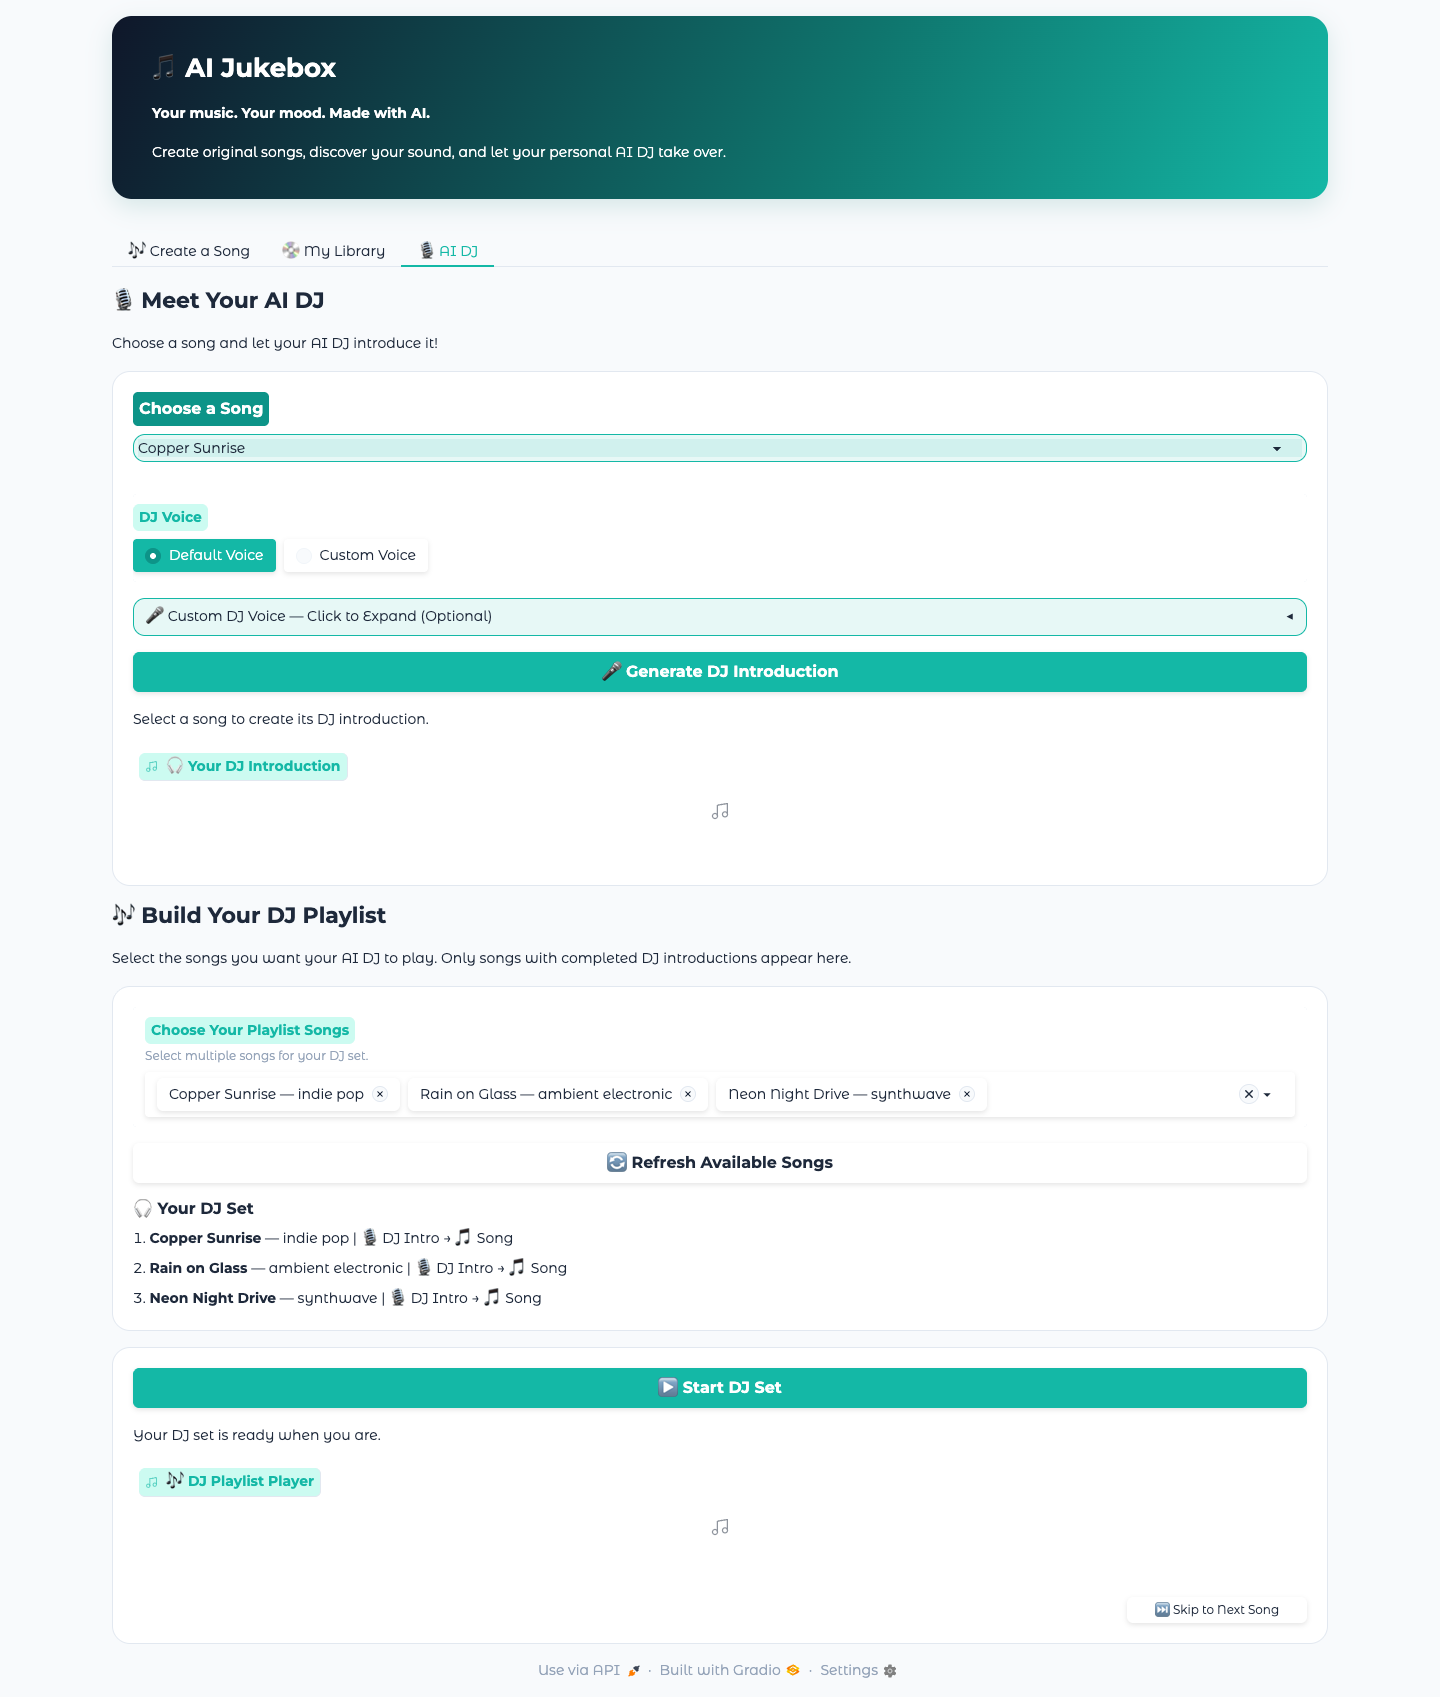
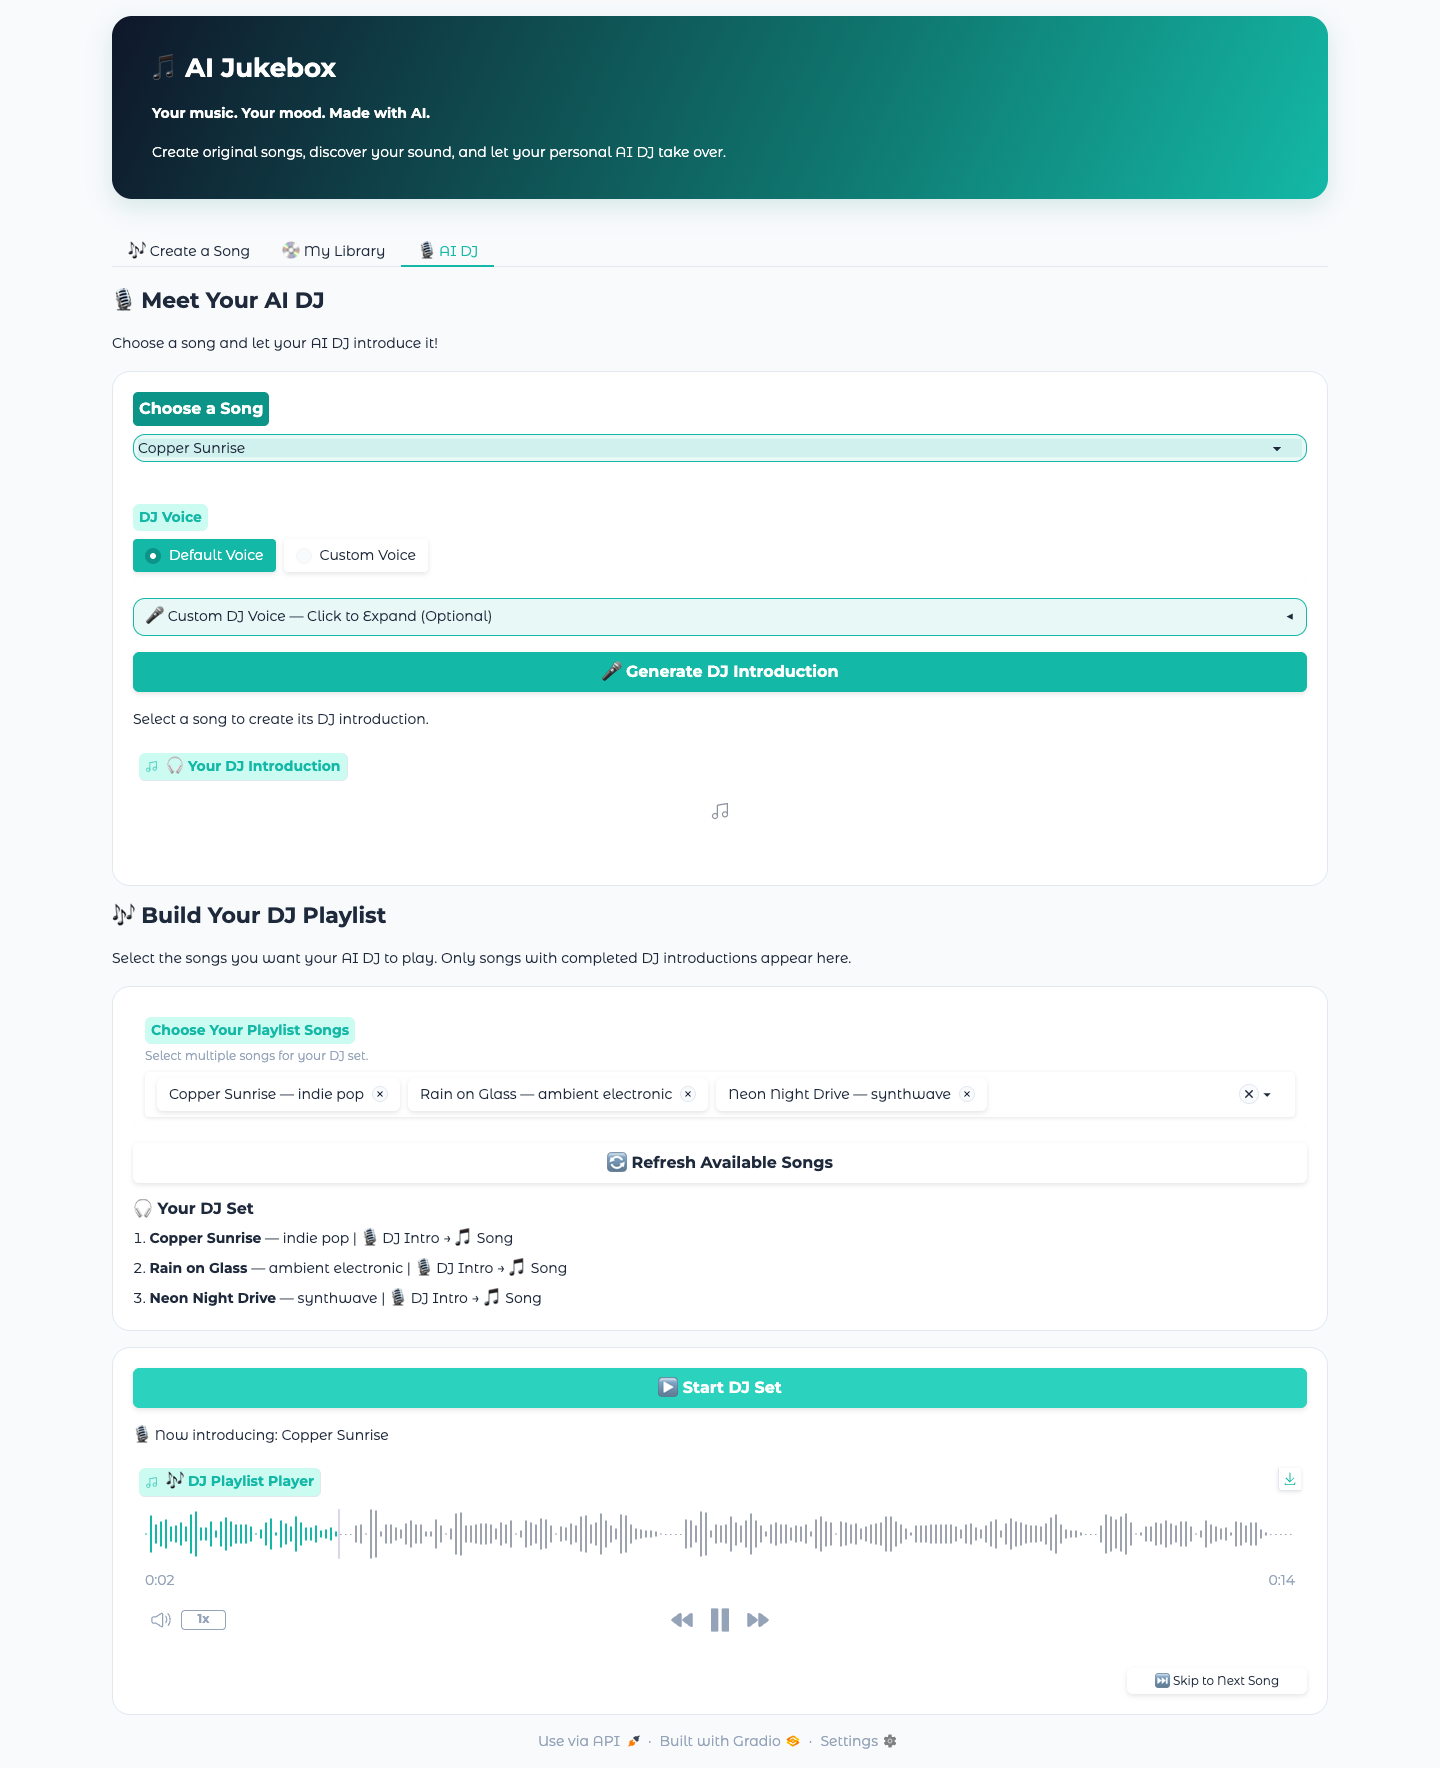
docs: capture bundled DJ speech actively playing

diff --git a/README.md b/README.md
@@ -96,7 +96,7 @@ Starting any of the four audio players pauses the others without clearing their 
 
 ## Interface screenshots
 
-These October 27, 2026 captures show the documented revision in isolated Chrome using bundled samples. No generation or playback controls were clicked. They illustrate the interface, not fresh generation or listening results.
+These October 27, 2026 captures show the documented app in isolated Chrome using bundled samples. The generation and library captures show the interface without starting playback. The DJ capture shows actual bundled speech playing after **Start DJ Set** was clicked; browser timing and audio-source checks are recorded in [playback verification](results/verification.md#bundled-dj-speech-playback-capture-issue-7-pr-17). No fresh AI generation or human listening test was performed.
 
 ![Song-generation controls](screenshots/song-generation.png)
 
@@ -106,9 +106,9 @@ Create a Song at its defaults, before generation.
 
 My Library with all three samples and Copper Sunrise selected for playback and editing.
 
-![DJ playlist ready to start](screenshots/dj-playlist.png)
+![DJ playlist actively playing bundled Copper Sunrise speech](screenshots/dj-playlist.png)
 
-AI DJ with three sample tracks queued but not started. **Issue #7 also requests a screenshot of the queue playing DJ speech; that capture is still needed.**
+AI DJ with all three sample tracks queued and **Now introducing: Copper Sunrise** displayed. The playlist player shows about 0:02 of its 0:14 introduction and a pause control. The active HTML audio element's time advanced with `paused=false`; its source bytes matched the bundled Copper Sunrise DJ MP3. This is browser playback evidence, not human audible-listening confirmation.
 
 ## Architecture
 
@@ -207,7 +207,8 @@ Package the generated samples, not third-party music, lyrics, art, or voice samp
 - [ ] Have the team verify this documentation against the finished app and explain the findings in its own words. Confirm the original starter prompt was retained and any additions were made before building; this draft does not establish that process history.
 - [ ] Have a teammate download the selected version's **ZIP from GitHub**, extract it into a clean location, and install/run using only this README and class credentials. Resolve missing dependencies, files, or setup instructions. Record tester, OS/Python/browser, commit/archive, inputs, expected/actual results, and fixes.
 - [ ] In that copy, verify new instrumental and vocal songs, matching new covers, library availability, default and custom MP3/WAV DJ speech, and sample playback. Check audible pause/resume, skip, automatic DJ/song progression, and non-overlap. Keep untested formats/conditions explicit. Existing simulated failure/recovery tests cover a failure case; a deliberate live outage is not required.
-- [ ] Capture the queue playing DJ speech for issue #7. Review and package the screenshots and SVG at their relative paths alongside the final `README.md`.
+- [x] Capture the queue playing bundled DJ speech for issue #7; browser state and source identity are recorded in `results/verification.md`. Human audible checks and the independent teammate ZIP test remain pending.
+- [ ] Review and package the screenshots and SVG at their relative paths alongside the final `README.md`.
 - [ ] Check the final package includes code, `pyproject.toml`, `uv.lock`, `.env.example`, documentation, sample manifest, three song MP3s, three DJ MP3s, and three covers. Exclude credentials, uploads, and voice references; previous audits do not establish that the final package is clean.
 - [ ] Confirm every teammate's meaningful contribution and review of a teammate's work through issues/PRs, and instructor access through grading. Complete issue #7's requested review by `fisher-clements` before merging its documentation PR.
 - [ ] After documentation review and final verification, submit one shared repository link, exact commit ID, and the **GitHub-downloaded ZIP for that same version** on Canvas. Nothing has been submitted by this documentation edit.

diff --git a/results/verification.md b/results/verification.md
@@ -44,3 +44,19 @@ Result: 163 passed, 2 warnings.
 
 The warnings did not cause test failures.
 Both warnings are Gradio deprecation notices for the `theme` and `css` parameters in `gr.Blocks()`. These parameters will need to move to `.launch()` when upgrading to Gradio 6.0. Neither warning affects the current functionality or test results. No changes are required for this PR.
+
+## Bundled DJ speech playback capture (Issue #7, PR #17)
+
+Captured October 27, 2026, at 18:16 MDT in automated headless Chrome 156.0.8078.49 on macOS. This supplements, rather than replaces, the October 26 results above.
+
+- **Source:** PR #17 head `ce727e8b0100e1aff71bc6d6fd94822c71527804`, exported with `git archive`; all 55 tracked files matched their Git blobs byte-for-byte. Application code, dependencies and bundled assets were unchanged from documented merge `47bf55a8ec10498b3a4534e86d9461a68ae271b1`.
+- **Isolation:** unchanged app, separate temporary library/cache and Chrome profile, fresh loopback server, 1440-pixel light-theme viewport. Credential variables were removed, dotenv and analytics disabled, and nonlocal Python connections/browser requests blocked. No AI generation button was clicked, no live AI call was made, and no synthetic audio or replacement service response was used.
+- **Actions:** clicked **Load 3 Demo Songs**, confirmed three persisted tracks, opened **AI DJ**, refreshed songs, selected Copper Sunrise, and queued Copper Sunrise → Rain on Glass → Neon Night Drive. Clicked the actual **Start DJ Set** button. The status became **Now introducing: Copper Sunrise**, and its waveform player began playback without a second play click in this session.
+- **Expected:** the first queue item plays its bundled DJ introduction while the queue remains visible.
+- **Observed:** the waveform player's HTML audio element had `paused=false`, `ended=false`, `readyState=4`, and duration `14.08` seconds. `currentTime` advanced from `0.164335` to `1.969957` seconds across an approximately 1.8-second wait. Immediately before/after the screenshot it advanced from `2.329521` to `2.430896` seconds, still unpaused and within the introduction.
[2 lines of base64/hex data omitted]
+- **Cleanup:** zero browser page errors and zero nonlocal Python connection attempts in the successful run. The owned browser and app were closed; a connection check confirmed the capture port was closed.
+- **Harness correction:** two initial attempts targeted the hidden fallback audio element rather than the active waveform audio element; they failed observation/selector checks and closed their browser/server. The successful capture inspected the waveform audio and verified its blob bytes. No application change was needed.
+
+**Limits and remaining review gate:** Chrome was launched with audio output muted. Advancing HTML audio time and a matching source demonstrate browser playback, not human audible listening, speech quality, full queue progression, pause/resume, skip, or cross-browser autoplay. The independent teammate installation from a **GitHub-downloaded ZIP**, including the required song generation, cover generation, and DJ-feature exercise and any fixes, is **still pending**. This capture does not complete that test, close issue #7, or constitute approval or merge authorization.
